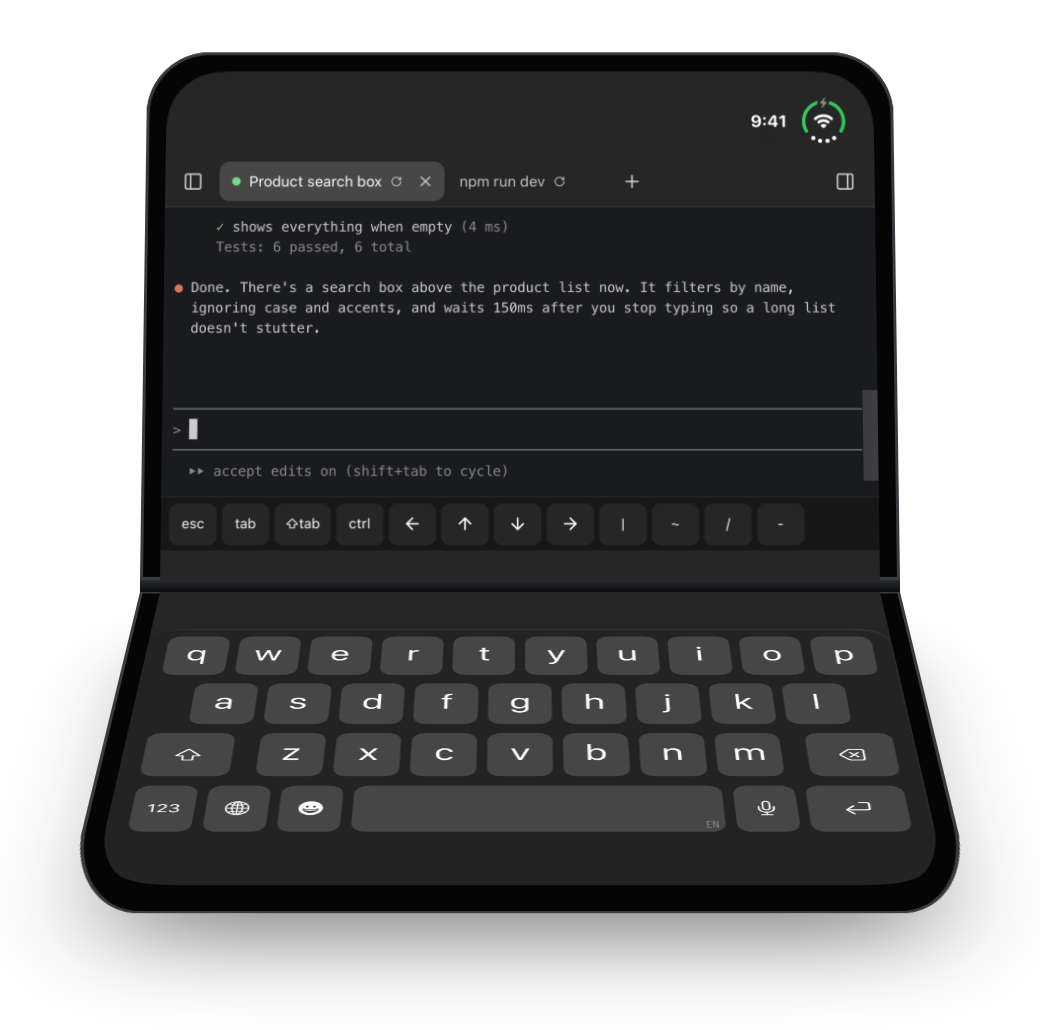
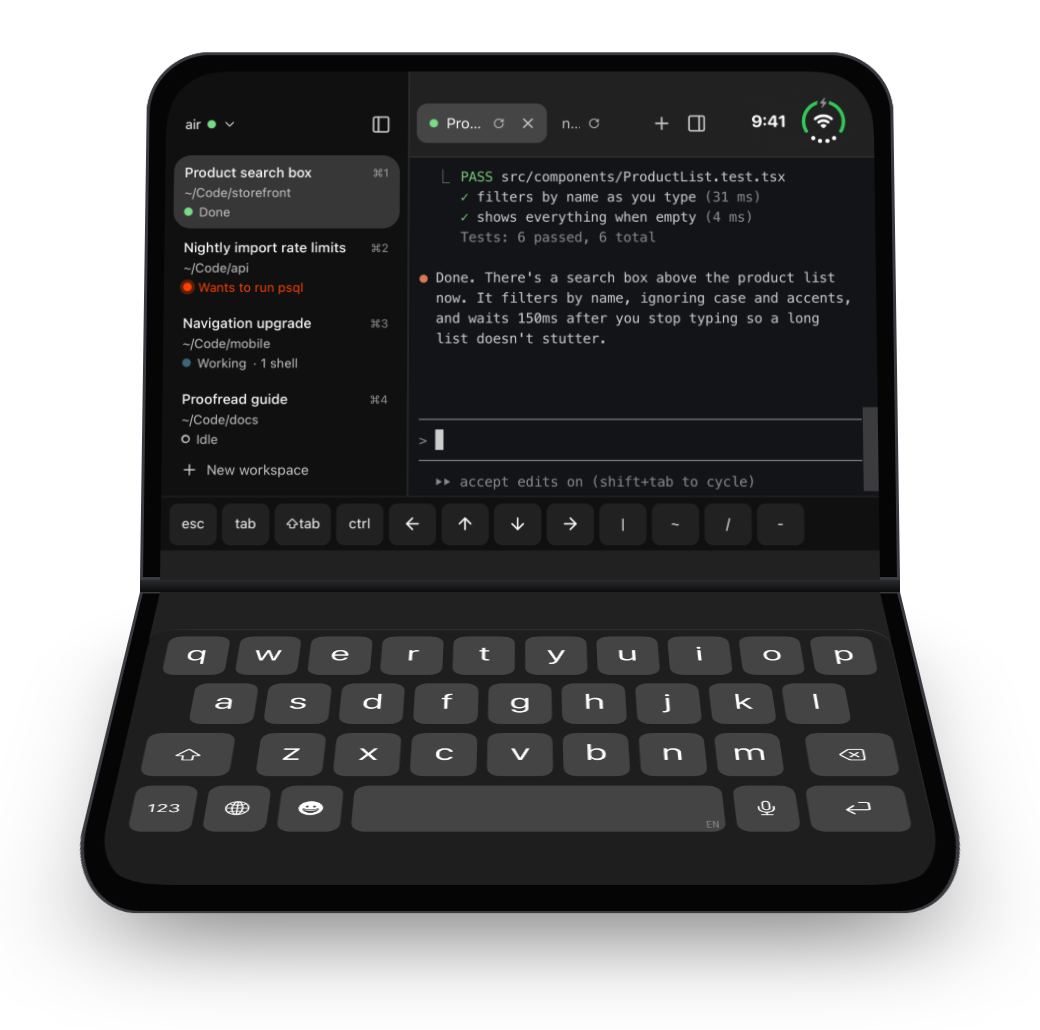
On the iPhone Duo's inner screen, the tab bar and the sidebar's title row go up beside the status and camera, where the shell's bars.top says (crosswing's safeAreaTopBar); the website's Duo shot retaken
Claude-Session: https://claude.ai/code/session_01Qz8vhDcBw7JxpZaPwsCcmV

diff --git a/packages/crosswing/safearea/safeArea.ts b/packages/crosswing/safearea/safeArea.ts
@@ -33,6 +33,26 @@ export const safeAreaCorners = {
     withPlus("var(--safe-area-corner-left, var(--safe-area-left, 0px))", plus),
 };
 
+/**
+ * For a bar along the top edge (a header, a tab strip): where the system would
+ * put it, which can be higher than the safe area, beside the cameras and the
+ * status bar (the iPhone Duo's inner display), with sides kept clear of them.
+ * Elsewhere, the plain safe area. Pad the bar's bottom by `below(height)` so
+ * what's under it still starts below the safe area, as it would under a bar
+ * at the safe area's top.
+ */
+export const safeAreaTopBar = {
+  top: (plus?: string) =>
+    withPlus("var(--safe-area-top-bar-top, var(--safe-area-top, 0px))", plus),
+  right: (plus?: string) =>
+    withPlus("var(--safe-area-top-bar-right, var(--safe-area-right, 0px))", plus),
+  left: (plus?: string) =>
+    withPlus("var(--safe-area-top-bar-left, var(--safe-area-left, 0px))", plus),
+  /** How far a bar of this height, placed by `top()`, must pad its bottom to reach the safe area's. */
+  below: (height: string) =>
+    `max(0px, calc(var(--safe-area-top, 0px) - var(--safe-area-top-bar-top, var(--safe-area-top, 0px)) - ${height}))`,
+};
+
 function withPlus(inset: string, plus?: string) {
   return plus ? `calc(${inset} + ${plus})` : inset;
 }
@@ -60,10 +80,14 @@ export function getSafeAreaCSS(safeArea: SafeArea) {
  *     }
  */
 export function provideSafeArea(edges: Partial<SafeArea>) {
-  // The corner-aware insets (see safeAreaCorners) change along with the plain
-  // ones, so clearing an edge clears both.
+  // The corner-aware insets (see safeAreaCorners) and the top bar's (see
+  // safeAreaTopBar) change along with the plain ones, so clearing an edge
+  // clears them all.
   return Object.entries(edges)
-    .map(([edge, value]) => `--safe-area-${edge}: ${value}; --safe-area-corner-${edge}: ${value};`)
+    .map(
+      ([edge, value]) =>
+        `--safe-area-${edge}: ${value}; --safe-area-corner-${edge}: ${value}; --safe-area-top-bar-${edge}: ${value};`,
+    )
     .join("\n");
 }
 

diff --git a/packages/ui/TabBar.tsx b/packages/ui/TabBar.tsx
@@ -5,7 +5,7 @@ import type { Tab, Workspace } from "miks/shared/protocol";
 import { Fragment, HTMLAttributes } from "react";
 import { styled } from "styled-components";
 import { coarsePointer } from "crosswing/host/pointer";
-import { safeArea } from "crosswing/safearea";
+import { safeAreaTopBar } from "crosswing/safearea";
 import { hasPanel, toggleChat, toggleExpanded, useChatOpen, useExpanded } from "./ChatPanel";
 import { closeTab } from "./closing";
 import { daemon } from "./daemon";
@@ -88,8 +88,10 @@ export const StyledTabBar = styled.div`
   align-items: center;
   height: 38px;
   flex-shrink: 0;
-  /* Under the status bar, with the screen's edges kept clear. */
-  padding: ${safeArea.top()} ${safeArea.right("6px")} 0 ${safeArea.left("6px")};
+  /* Under the status bar, or beside it where the system puts bars there (the
+     iPhone Duo's inner display), with the screen's edges kept clear. */
+  padding: ${safeAreaTopBar.top()} ${safeAreaTopBar.right("6px")} ${safeAreaTopBar.below("38px")}
+    ${safeAreaTopBar.left("6px")};
   border-bottom: 1px solid ${colors.separator()};
   user-select: none;
   -webkit-app-region: drag;
@@ -147,6 +149,7 @@ export const StyledTabBar = styled.div`
   /* Finger-sized, on a touch screen. */
   ${coarsePointer(`
     height: 48px;
+    padding-bottom: ${safeAreaTopBar.below("48px")};
 
     > .new-tab,
     > .expand-toggle,

diff --git a/packages/ui/Sidebar.tsx b/packages/ui/Sidebar.tsx
@@ -11,7 +11,7 @@ import { Workspace } from "miks/shared/protocol";
 import { Fragment, HTMLAttributes, KeyboardEvent, use, useState } from "react";
 import { styled } from "styled-components";
 import { coarsePointer } from "crosswing/host/pointer";
-import { padSafeArea } from "crosswing/safearea";
+import { padSafeArea, provideSafeArea, safeAreaTopBar } from "crosswing/safearea";
 import { daemon, useMacs } from "./daemon";
 import { addMac, useRemoveMac } from "./MacChooser";
 import { useDraggable } from "crosswing/components/draggable/useDraggable";
@@ -77,7 +77,13 @@ export const StyledSidebar = styled.div`
   background: ${colors.textBackgroundPanel()};
   height: 100%;
   user-select: none;
-  ${padSafeArea("top", "left", "bottom")}
+  ${padSafeArea("left", "bottom")}
+  /* Its title row is a bar along the top, beside the status bar where the
+     system puts bars there (the iPhone Duo's inner display). */
+  padding-top: ${safeAreaTopBar.top()};
+  > * {
+    ${provideSafeArea({ top: "0px" })}
+  }
 
   > .titlebar {
     /* Room for the traffic lights, and something to drag the window by. */

diff --git a/packages/crosswing/host/util/barStrip.ts b/packages/crosswing/host/util/barStrip.ts
@@ -59,6 +59,24 @@ export function getBarStripStyle(layout: HostLayout | undefined): CSSProperties 
 }
 
 /**
+ * CSS custom properties for a bar along the top, for safeAreaTopBar, where the
+ * system would put one higher than the safe area: beside the cameras and the
+ * status bar rather than under them, as on the iPhone Duo's inner display, whose
+ * status sits in the top-right corner. Nothing anywhere else, where the
+ * properties fall back to the safe area.
+ */
+export function getTopBarStyle(layout: HostLayout | undefined): CSSProperties {
+  const bar = layout?.bars?.top;
+  if (!bar || bar.y >= layout.safeArea.top) return {};
+
+  return {
+    "--safe-area-top-bar-top": `${bar.y}px`,
+    "--safe-area-top-bar-left": `${bar.x}px`,
+    "--safe-area-top-bar-right": `${layout.width - bar.x - bar.width}px`,
+  } as CSSProperties;
+}
+
+/**
  * CSS custom properties for the safe area plus the screen's rounded corners,
  * along each edge, for safeAreaCorners. The host reports two corner
  * adaptations (clearing the corners horizontally or vertically); we take the

diff --git a/packages/ui/App.tsx b/packages/ui/App.tsx
@@ -12,7 +12,7 @@ import { use, useEffect, useRef, useState } from "react";
 import { keyframes, styled } from "styled-components";
 import { HostContext } from "crosswing/host/context";
 import { coarsePointer } from "crosswing/host/pointer";
-import { provideSafeArea, safeArea } from "crosswing/safearea";
+import { provideSafeArea, safeArea, safeAreaTopBar } from "crosswing/safearea";
 import { ChatLayout, hasPanel, isChatOpen, setChatOpen, toggleChat, toggleExpanded } from "./ChatPanel";
 import { closeTab, closeWorkspace } from "./closing";
 import { daemon, type Target, useDaemon, useMacs, useTarget } from "./daemon";
@@ -235,8 +235,9 @@ export const StyledApp = styled.div`
 
     > .empty-bar {
       height: 38px;
-      padding-top: ${safeArea.top()};
-      ${coarsePointer(`height: 48px;`)}
+      padding-top: ${safeAreaTopBar.top()};
+      padding-bottom: ${safeAreaTopBar.below("38px")};
+      ${coarsePointer(`height: 48px; padding-bottom: ${safeAreaTopBar.below("48px")};`)}
       -webkit-app-region: drag;
     }
 

diff --git a/packages/crosswing/host/context/HostProvider.tsx b/packages/crosswing/host/context/HostProvider.tsx
@@ -51,7 +51,7 @@ import { useWindowListener } from "../util/useWindowListener.js";
 import { useMatchMedia } from "../../hooks/useMatchMedia.js";
 import { getFoldStyle } from "../util/fold.js";
 import { COARSE_POINTER_QUERY, getPointerStyle } from "../util/pointer.js";
-import { getBarStripStyle, getSafeAreaCornersStyle, reserveSafeArea } from "../util/barStrip.js";
+import { getBarStripStyle, getSafeAreaCornersStyle, getTopBarStyle, reserveSafeArea } from "../util/barStrip.js";
 import { BarEdgeContext } from "./BarEdgeContext.js";
 import { HostContext } from "./HostContext.js";
 
@@ -179,6 +179,7 @@ export function HostProvider({
             ...getBarStripStyle(layout),
             ...getFoldStyle(layout),
             ...getSafeAreaCornersStyle(layout),
+            ...getTopBarStyle(layout),
             ...rest.style,
           }}
         />

diff --git a/packages/crosswing/modals/actions/useActions.tsx b/packages/crosswing/modals/actions/useActions.tsx
@@ -8,6 +8,10 @@ import { ActionItem, ActionMenu } from "./ActionMenu.js";
 
 export * from "./ActionMenu.js";
 
+/**
+ * @deprecated Use a popup menu instead (`usePopup` with `PopupMenu`), from a
+ * button: an action sheet is an old iOS idiom that apps here no longer use.
+ */
 export function useActions<T extends any[]>(actions: (...args: T) => ActionItem[]): Modal<T> {
   const modal = useModal((...args: T) => {
     const items = actions(...args);

diff --git a/AGENTS.md b/AGENTS.md
@@ -165,7 +165,11 @@ Never SIGTERM a Miks UI; that's an ordinary quit.
   crosswing's `HostProvider` (in `main.tsx`) gives the screen's insets as
   `--safe-area-*` (the iPhone Duo's strip and fold included, as in sage);
   each region pads the edges it touches (`crosswing/safearea`), and
-  `PanelLayout` clears the ones a panel beside it already has. The shell
+  `PanelLayout` clears the ones a panel beside it already has. On the Duo's
+  inner screen, whose status and camera take the top-right corner (82pt of
+  safe area), the tab bar and the sidebar's title row go up beside them, where
+  the shell's `bars.top` says (crosswing's `safeAreaTopBar`, set only when
+  that's above the safe area: an iPhone 18 Pro's is at it). The shell
   reports the on-screen keyboard's top (`viewport` in `HostContext`), and the
   app's root takes the height above it. On a touch screen nothing takes the
   keyboard on its own (`autoFocus()` in `ui/settings.ts`: focusing brings the
